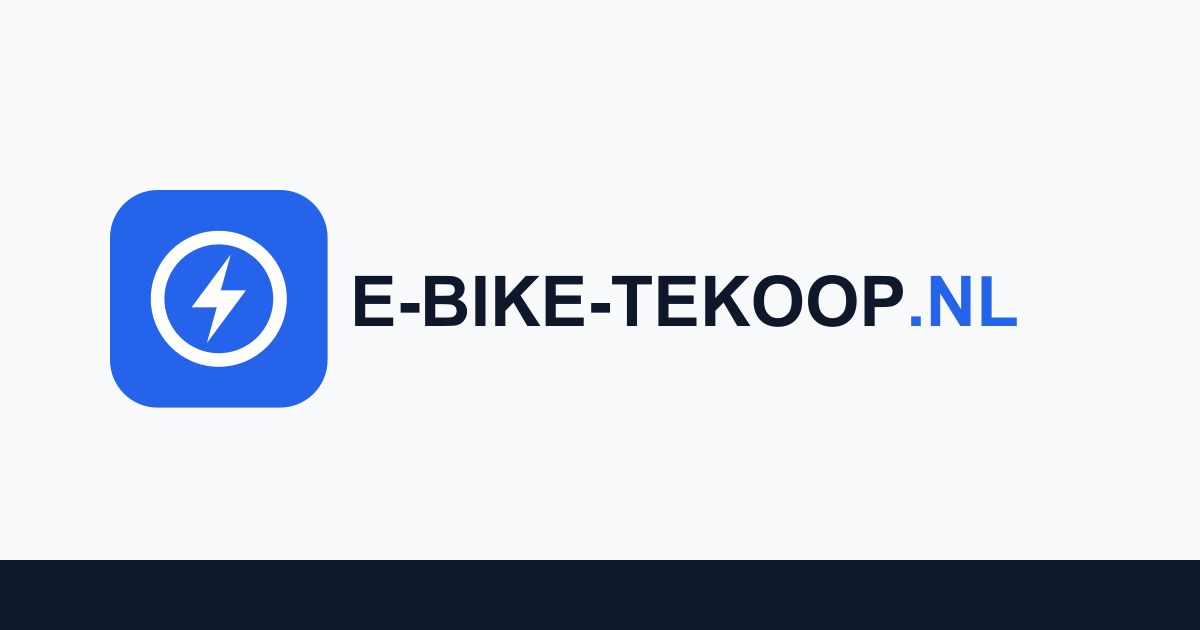
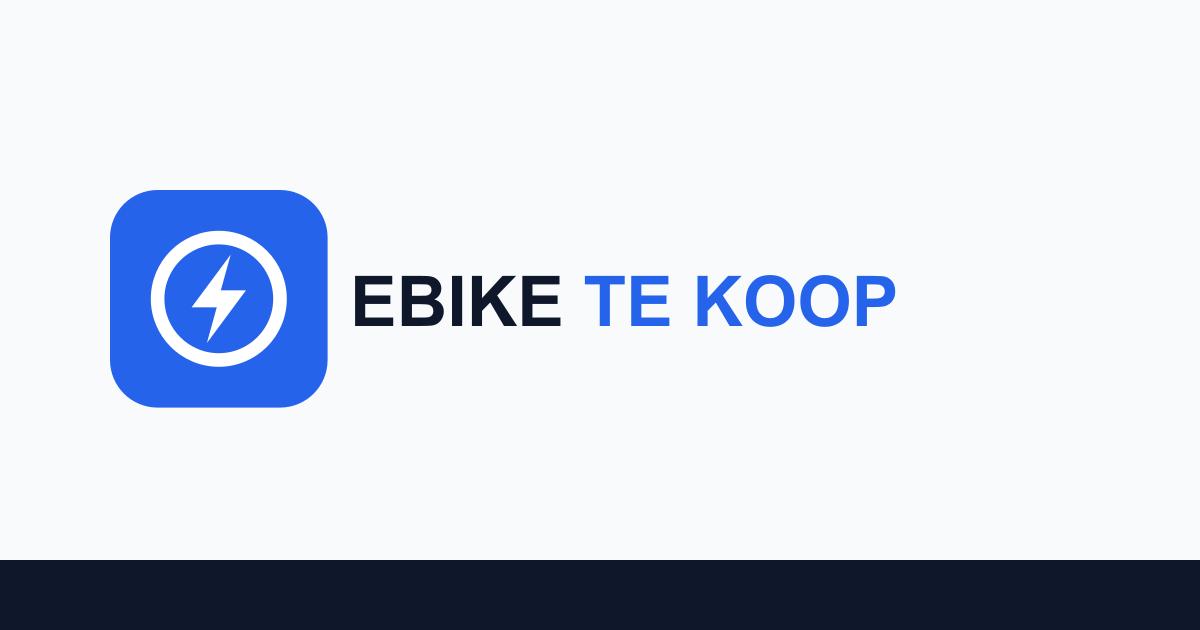
feat(brand): shop name is now EBIKE TE KOOP
Header and footer wordmark, page title suffix, Open Graph and schema name, web manifest, order emails,
the social preview image and the English dictionary. The title-length rule uses the shorter suffix.

Changed region(s): [[0.3083, 0.4222, 0.8633, 0.5429]]

diff --git a/web/src/data/ebikes.ts b/web/src/data/ebikes.ts
@@ -93,7 +93,7 @@ export const SITE_TRUSTPILOT_REVIEWS: TrustpilotReview[] = [
     rating: 5,
     date: '3 weken geleden',
     title: 'Stromer ST3 Speed Pedelec: brute commuter machine',
-    content: 'Kentekenplaat en tenaamstelling direct geregeld door E-BIKE-TEKOOP.NL. 45 km/u cruisen zonder zweet naar mijn kantoor 32 km verderop. Accu van bijna 1000Wh haalt met gemak de retourtrip.',
+    content: 'Kentekenplaat en tenaamstelling direct geregeld door EBIKE TE KOOP. 45 km/u cruisen zonder zweet naar mijn kantoor 32 km verderop. Accu van bijna 1000Wh haalt met gemak de retourtrip.',
     verified: true,
     productTitle: 'Stromer ST3 Pinion'
   },
@@ -138,7 +138,7 @@ export const SEO_LANDING_PAGES: LandingPageDef[] = [
     title: 'Bosch Middenmotor E-bikes',
     subtitle: 'E-bikes met Bosch middenmotor: de motor zit bij de trapas, wat zorgt voor een natuurlijke trapondersteuning en een laag zwaartepunt.',
     h1: 'Elektrische fiets met middenmotor (Bosch)',
-    metaTitle: 'Elektrische fiets met middenmotor (Bosch) | E-BIKE-TEKOOP.NL',
+    metaTitle: 'Elektrische fiets met middenmotor (Bosch) | EBIKE TE KOOP',
     metaDescription: 'E-bikes met Bosch middenmotor van onder meer Cube, Kalkhoff, Scott en Winora. Vergelijk motor, accu en adviesprijs per model.',
     matchFilter: { motormerk: 'Bosch', motorpositie: 'Middenmotor' },
     highlightPoints: [
@@ -153,7 +153,7 @@ export const SEO_LANDING_PAGES: LandingPageDef[] = [
     title: 'Elektrische Damesfietsen',
     subtitle: 'Een lage instap maakt op- en afstappen eenvoudig. Vergelijk elektrische damesfietsen op motor, accu en prijs.',
     h1: 'Elektrische fiets met lage instap kopen',
-    metaTitle: 'Elektrische fiets met lage instap | E-BIKE-TEKOOP.NL',
+    metaTitle: 'Elektrische fiets met lage instap | EBIKE TE KOOP',
     metaDescription: 'Elektrische damesfietsen met lage instap van onder meer Cube, Winora, Batavus en Specialized. Vergelijk modellen en adviesprijzen.',
     matchFilter: { doelgroep: 'Dames (lage instap)' },
     highlightPoints: [
@@ -168,7 +168,7 @@ export const SEO_LANDING_PAGES: LandingPageDef[] = [
     title: 'E-bike onder €2000',
     subtitle: 'Nieuwe e-bikes tot €2.000 van onder meer Tenways, Cube en Sushi Bikes.',
     h1: 'Elektrische fiets onder €2.000',
-    metaTitle: 'Elektrische fiets onder €2.000 | E-BIKE-TEKOOP.NL',
+    metaTitle: 'Elektrische fiets onder €2.000 | EBIKE TE KOOP',
     metaDescription: 'Nieuwe elektrische fietsen tot €2.000 van onder meer Tenways, Cube en Sushi Bikes. Vergelijk motor, accu en adviesprijs per model.',
     matchFilter: {},
     priceMax: 2000,
@@ -184,7 +184,7 @@ export const SEO_LANDING_PAGES: LandingPageDef[] = [
     title: 'Fietsplan & WKR E-bikes',
     subtitle: 'Veel werkgevers bieden een fietsplan. Bekijk hier de e-bikes en bepaal welk model past.',
     h1: 'E-bike kopen via het fietsplan van je werkgever',
-    metaTitle: 'E-bike via fietsplan van je werkgever | E-BIKE-TEKOOP.NL',
+    metaTitle: 'E-bike via fietsplan van je werkgever | EBIKE TE KOOP',
     metaDescription: 'Een nieuwe elektrische fiets kopen via het fietsplan van je werkgever? Bekijk het aanbod en vergelijk modellen, motoren en adviesprijzen.',
     matchFilter: {},
     highlightPoints: [
@@ -199,7 +199,7 @@ export const SEO_LANDING_PAGES: LandingPageDef[] = [
     title: 'Speed Pedelecs (45 km/u)',
     subtitle: 'Een speed pedelec ondersteunt tot 45 km/u en is bedoeld voor langere woon-werkritten.',
     h1: 'Speed pedelec kopen: e-bike tot 45 km/u',
-    metaTitle: 'Speed pedelec kopen: e-bike tot 45 km/u | E-BIKE-TEKOOP.NL',
+    metaTitle: 'Speed pedelec kopen: e-bike tot 45 km/u | EBIKE TE KOOP',
     metaDescription: 'Speed pedelecs met motorondersteuning tot 45 km/u, onder meer van Stromer en Cube. Vergelijk motor, accu en adviesprijs per model.',
     matchFilter: { maximaleSnelheid: '45 km/u' },
     highlightPoints: [

diff --git a/web/src/components/SiteShell.tsx b/web/src/components/SiteShell.tsx
@@ -31,7 +31,7 @@ export function SiteShell({ children, popularBrands = [] }: { children: React.Re
           <StaticHtml as="footer" className="below bg-slate-900 text-slate-400 text-xs border-t border-slate-800">
             <div className="max-w-7xl mx-auto px-4 sm:px-6 lg:px-8 py-12">
               <div className="grid grid-cols-1 sm:grid-cols-2 lg:grid-cols-4 gap-8">
-                {/* Col 1: About E-BIKE-TEKOOP.NL */}
+                {/* Col 1: About EBIKE TE KOOP */}
                 <div className="space-y-3">
                   <Link prefetch={false}
                     to="/"
@@ -134,7 +134,7 @@ export function SiteShell({ children, popularBrands = [] }: { children: React.Re
 
               <div className="mt-8 pt-6 border-t border-slate-800 flex flex-wrap items-center justify-between gap-4 text-[11px]">
                 <div>
-                  © {new Date().getFullYear()} {tr("E-BIKE-TEKOOP.NL. Alle prijzen inclusief 21% BTW.")}
+                  © {new Date().getFullYear()} {tr("EBIKE TE KOOP. Alle prijzen inclusief 21% BTW.")}
                 </div>
                 <div className="flex flex-wrap items-center gap-x-4 gap-y-2">
                   <Link prefetch={false} to="/vergelijken" className="hover:text-white">

diff --git a/web/src/components/RootLayoutBase.tsx b/web/src/components/RootLayoutBase.tsx
@@ -13,18 +13,18 @@ export function rootMetadata(locale: Locale) {
   return {
     title: {
       default: tx(locale, 'Elektrische fiets kopen | E-bikes van Cube, Giant, Scott'),
-      template: '%s | E-BIKE-TEKOOP.NL',
+      template: '%s | EBIKE TE KOOP',
     },
     description: tx(
       locale,
       'Vergelijk nieuwe elektrische fietsen van Cube, Giant, Scott, Specialized en Kalkhoff. Bekijk modellen, specificaties en adviesprijzen op één plek.',
     ),
-    applicationName: 'E-BIKE-TEKOOP.NL',
+    applicationName: 'EBIKE TE KOOP',
     metadataBase: new URL(SITE_URL),
     openGraph: {
       locale: locale === 'en' ? 'en_US' : 'nl_NL',
       type: 'website' as const,
-      siteName: 'E-BIKE-TEKOOP.NL',
+      siteName: 'EBIKE TE KOOP',
     },
   };
 }
@@ -32,7 +32,7 @@ export function rootMetadata(locale: Locale) {
 const ORGANIZATION_LD = {
   '@context': 'https://schema.org',
   '@type': 'Organization',
-  name: 'E-BIKE-TEKOOP.NL',
+  name: 'EBIKE TE KOOP',
   url: SITE_URL,
   logo: `${SITE_URL}/apple-icon.png`,
 };

diff --git a/web/src/lib/productSeo.ts b/web/src/lib/productSeo.ts
@@ -17,10 +17,10 @@ export function productMeta(p: Product, locale: Locale) {
   // a few models exist in two variants under one name: add the model code so titles stay unique
   const sameName = PRODUCTS.filter((x) => x.brand === p.brand && x.model.toLowerCase() === p.model.toLowerCase()).length > 1;
   const name = `${p.brand} ${p.model}${sameName ? ' ' + p.slug.split('-').pop()!.toUpperCase() : ''}`;
-  // keep the brand suffix (" | E-BIKE-TEKOOP.NL", 19 chars) only when the whole title still fits in 60
+  // keep the brand suffix (" | EBIKE TE KOOP", 16 chars) only when the whole title still fits in 60
   const base = fit(name, 53);
   const title = en ? `Buy ${base}` : `${base} kopen`;
-  const absolute = title.length + 19 > 60;
+  const absolute = title.length + 16 > 60;
 
   const motor = p.motorModel?.replace(/\s*,?\s*\d+\s?Nm/i, '').trim();
   const price = p.price.toLocaleString(en ? 'en-GB' : 'nl-NL');

diff --git a/web/src/components/Logo.tsx b/web/src/components/Logo.tsx
@@ -14,7 +14,7 @@ export const Logo: React.FC<{ onDark?: boolean; className?: string }> = ({ onDar
   <span className={`inline-flex items-center gap-2.5 font-display font-black tracking-tight whitespace-nowrap ${className}`}>
     <LogoMark className="w-8 h-8 sm:w-9 sm:h-9 shrink-0" />
     <span className={onDark ? 'text-white' : 'text-slate-900'}>
-      E-BIKE-TEKOOP<span className={onDark ? 'text-blue-400' : 'text-blue-600'}>.NL</span>
+      EBIKE<span className={onDark ? 'text-blue-400' : 'text-blue-600'}> TE KOOP</span>
     </span>
   </span>
 );

diff --git a/web/src/lib/orderSteps.ts b/web/src/lib/orderSteps.ts
@@ -1,5 +1,5 @@
 // How ordering works, in Dutch (translated through tr()/tx()). Shared by the server InfoBlock and the product page's client FAQ.
-export const ORDER_TITLE = 'Zo bestel je bij E-BIKE-TEKOOP.NL';
+export const ORDER_TITLE = 'Zo bestel je bij EBIKE TE KOOP';
 export const ORDER_STEPS = [
   'Kies je model, leg het in de winkelwagen en rond de bestelling af. Je hoeft geen account aan te maken.',
   'Je betaalt per bankoverschrijving of met crypto (BTC, USDT of ETH) met 10% korting. De betaalgegevens ontvang je per e-mail.',

diff --git a/web/src/lib/seo.ts b/web/src/lib/seo.ts
@@ -15,7 +15,7 @@ type PageMetaOptions = {
 export const tx = (locale: Locale, text: string) => translate(locale, text) as string;
 
 export const SITE_URL = process.env.NEXT_PUBLIC_SITE_URL ?? 'https://ebike-te-koop.nl';
-export const SITE_NAME = 'E-BIKE-TEKOOP.NL';
+export const SITE_NAME = 'EBIKE TE KOOP';
 // Default share image (generated by scripts/brand/make-icons.mjs, served from src/app/opengraph-image.png)
 const DEFAULT_OG_IMAGE = { url: `${SITE_URL}/opengraph-image.png`, width: 1200, height: 630, alt: SITE_NAME };
 

diff --git a/web/src/app/(nl)/contact/page.tsx b/web/src/app/(nl)/contact/page.tsx
@@ -6,7 +6,7 @@ import { ContactFaq } from '@/components/ContactFaq';
 
 export const metadata: Metadata = pageMeta('nl', '/contact', {
   title: 'Contact',
-  description: 'Vragen over een e-bike of je bestelling? Neem contact op met E-BIKE-TEKOOP.NL via het formulier of mail naar verkoop@e-bike-tekoop.nl.',
+  description: 'Vragen over een e-bike of je bestelling? Neem contact op met EBIKE TE KOOP via het formulier of mail naar verkoop@e-bike-tekoop.nl.',
 });
 
 export default function Page() {

diff --git a/web/src/app/en/contact/page.tsx b/web/src/app/en/contact/page.tsx
@@ -6,7 +6,7 @@ import { ContactFaq } from '@/components/ContactFaq';
 
 export const metadata: Metadata = pageMeta('en', '/contact', {
   title: 'Contact',
-  description: 'Vragen over een e-bike of je bestelling? Neem contact op met E-BIKE-TEKOOP.NL via het formulier of mail naar verkoop@e-bike-tekoop.nl.',
+  description: 'Vragen over een e-bike of je bestelling? Neem contact op met EBIKE TE KOOP via het formulier of mail naar verkoop@e-bike-tekoop.nl.',
 });
 
 export default function Page() {

diff --git a/web/src/app/(admin)/admin/send-payment-email/page.tsx b/web/src/app/(admin)/admin/send-payment-email/page.tsx
@@ -9,7 +9,7 @@ import { paymentMethodParts, paymentTermsLines, parsePaymentDetail } from '@/lib
 import type { StoredOrder } from '@/lib/reply/types';
 
 const PLACEHOLDERS: Record<string, string> = {
-  bank: 'Account name: E-BIKE-TEKOOP.NL\nIBAN: NL00 BANK 0000 0000 00\nReference: EBT-XXXXXX',
+  bank: 'Account name: EBIKE TE KOOP\nIBAN: NL00 BANK 0000 0000 00\nReference: EBT-XXXXXX',
   crypto: 'Amount: 0.0000 BTC (or USDT)\nWallet address: …\nNetwork: Bitcoin (or the USDT network)',
 };
 

diff --git a/web/src/views/TaxonomyPage.tsx b/web/src/views/TaxonomyPage.tsx
@@ -55,7 +55,7 @@ export const TaxonomyPage: React.FC = () => {
           <span>{tr("WooCommerce Data Model")}</span>
         </div>
         <h1 className="text-2xl sm:text-3xl font-extrabold text-slate-900 font-display">
-          {tr("E-BIKE-TEKOOP.NL Taxonomie Specificatie")}
+          {tr("EBIKE TE KOOP Taxonomie Specificatie")}
         </h1>
         <p className="text-xs text-slate-500 mt-0.5">
           {tr("Taxonomie, product-level velden, attributen en SEO regels")}

diff --git a/web/src/app/manifest.ts b/web/src/app/manifest.ts
@@ -2,8 +2,8 @@ import type { MetadataRoute } from 'next';
 
 export default function manifest(): MetadataRoute.Manifest {
   return {
-    name: 'E-BIKE-TEKOOP.NL',
-    short_name: 'E-BIKE-TEKOOP',
+    name: 'EBIKE TE KOOP',
+    short_name: 'EBIKE TE KOOP',
     description: 'Vergelijk nieuwe elektrische fietsen: modellen, specificaties en adviesprijzen.',
     start_url: '/',
     display: 'standalone',
